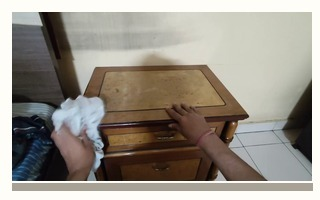
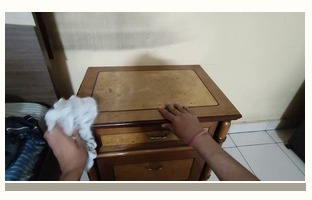
Remove input-gallery borders and letterbox bars
Drop per-frame outlines on raw/neighbor strips, override the global dark figure-image background that created side bars, and keep overlay/crop sizes consistent.

diff --git a/egoant-report/css/report.css b/egoant-report/css/report.css
@@ -1075,9 +1075,10 @@ pre.formula {
 .input-zoo .figure > img {
   display: block;
   width: 100%;
-  max-height: none;
-  background: #f3f1ec;
-  border-radius: 8px;
+  height: auto;
+  background: transparent;
+  border: 0;
+  border-radius: 0;
   object-fit: contain;
 }
 .input-zoo figcaption {
@@ -1089,17 +1090,22 @@ pre.formula {
   display: grid;
   grid-template-columns: 1fr 1fr;
   gap: 1rem;
+  align-items: start;
 }
 .input-zoo-pair .figure > img {
-  max-height: 220px;
-  margin-inline: auto;
+  width: 100%;
+  height: auto;
+  max-height: none;
+  object-fit: cover;
+  aspect-ratio: 5 / 3;
+  background: transparent;
 }
 
 /* Flat three-frame strip for raw / neighbor samples */
 .frame-strip {
   display: grid;
   grid-template-columns: repeat(3, minmax(0, 1fr));
-  gap: 0.65rem;
+  gap: 0.55rem;
 }
 .frame-cell {
   display: flex;
@@ -1112,9 +1118,9 @@ pre.formula {
   width: 100%;
   aspect-ratio: 16 / 10;
   object-fit: cover;
-  border-radius: 8px;
-  border: 1px solid rgba(40, 36, 30, 0.12);
-  background: #efece6;
+  border: 0;
+  border-radius: 0;
+  background: transparent;
 }
 .frame-label {
   text-align: center;
@@ -1127,11 +1133,8 @@ pre.formula {
   .input-zoo-pair {
     grid-template-columns: 1fr;
   }
-  .input-zoo-pair .figure > img {
-    max-height: none;
-  }
   .frame-strip {
-    gap: 0.45rem;
+    gap: 0.4rem;
   }
   .frame-label {
     font-size: 0.78rem;

diff --git a/egoant-report/index.html b/egoant-report/index.html
@@ -7,7 +7,7 @@
   <link rel="preconnect" href="https://fonts.googleapis.com" />
   <link rel="preconnect" href="https://fonts.gstatic.com" crossorigin />
   <link href="https://fonts.googleapis.com/css2?family=IBM+Plex+Mono:wght@400;500&family=IBM+Plex+Sans:wght@400;500;600;700&family=Source+Serif+4:opsz,wght@8..60,500;8..60,650;8..60,700&display=swap" rel="stylesheet" />
-  <link rel="stylesheet" href="css/report.css?v=20260810-15" />
+  <link rel="stylesheet" href="css/report.css?v=20260810-16" />
 </head>
 <body>
   <header class="splash" id="top">
